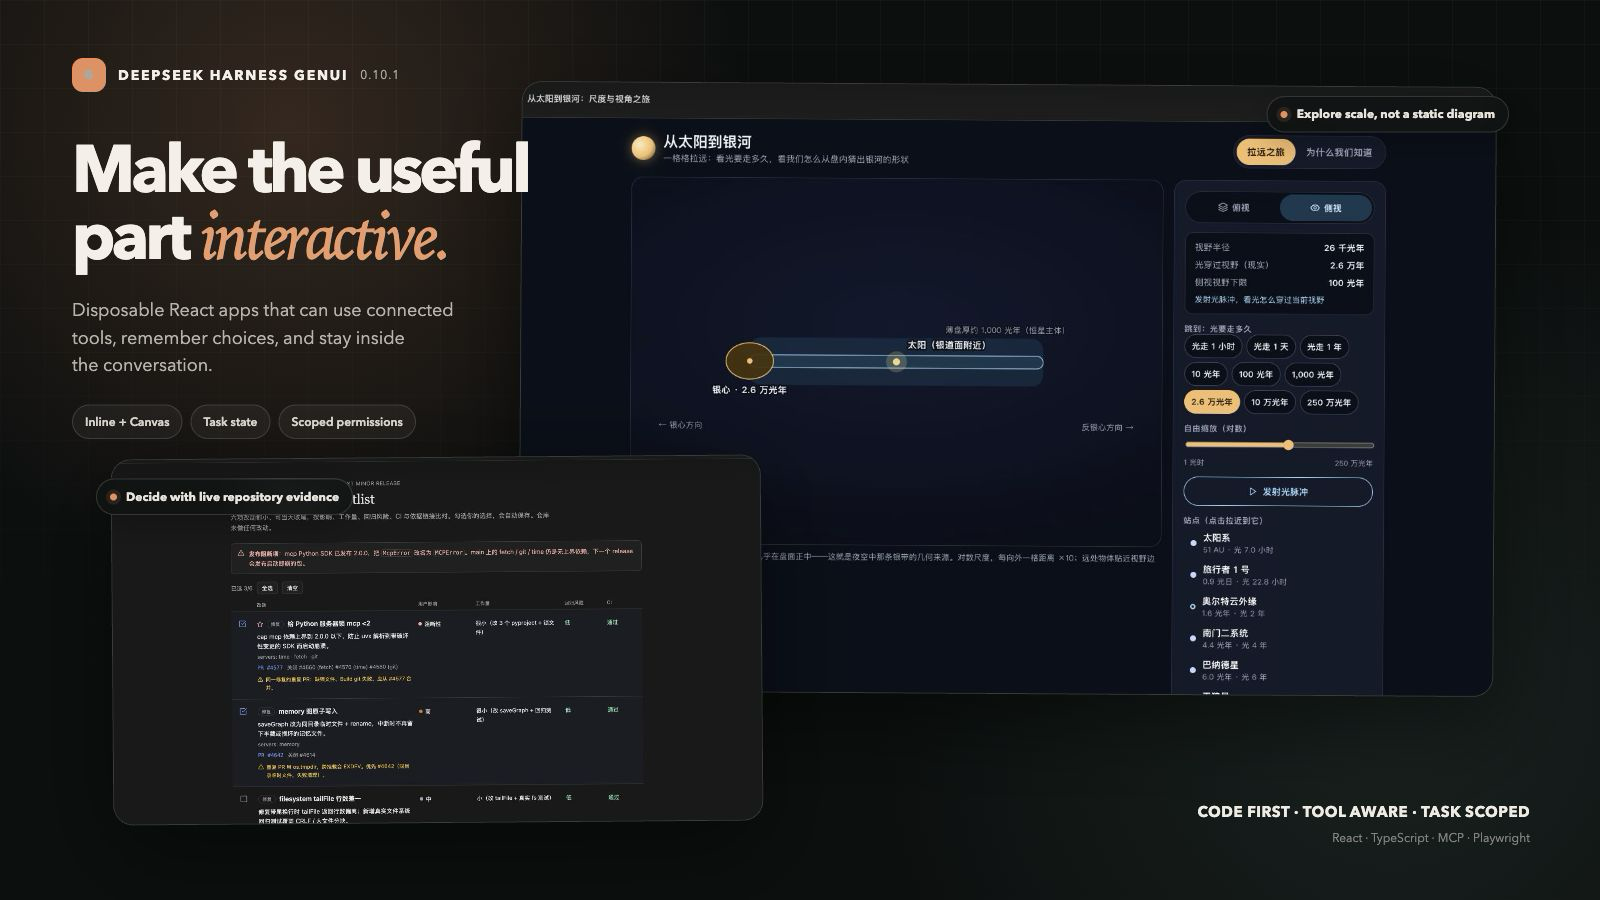
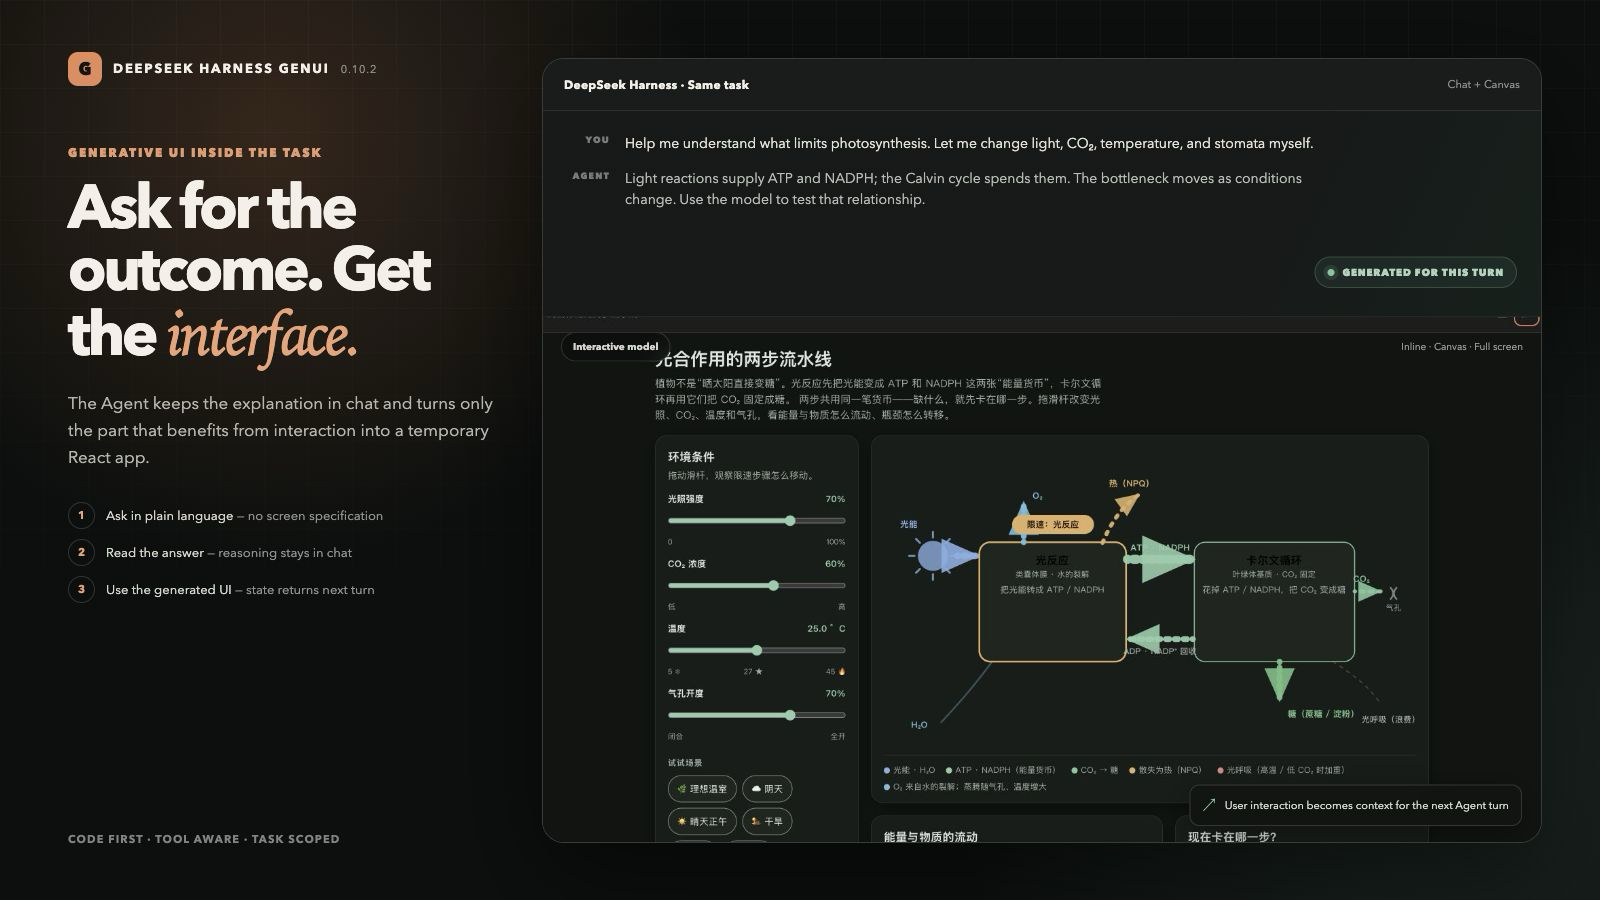
docs: show the GenUI workflow

diff --git a/assets/hero.html b/assets/hero.html
@@ -10,9 +10,9 @@
     body {
       position: relative;
       background:
-        radial-gradient(circle at 18% 14%, rgba(235, 140, 90, .19), transparent 30%),
-        radial-gradient(circle at 87% 79%, rgba(81, 145, 128, .14), transparent 33%),
-        #0d0f0f;
+        radial-gradient(circle at 17% 15%, rgba(226, 125, 76, .20), transparent 28%),
+        radial-gradient(circle at 91% 82%, rgba(88, 145, 124, .17), transparent 31%),
+        #0c0f0e;
       color: #f4f0e8;
       font-family: "Avenir Next", "Helvetica Neue", sans-serif;
     }
@@ -20,49 +20,84 @@
       position: absolute;
       inset: 0;
       background-image:
-        linear-gradient(rgba(255,255,255,.026) 1px, transparent 1px),
-        linear-gradient(90deg, rgba(255,255,255,.026) 1px, transparent 1px);
+        linear-gradient(rgba(255,255,255,.025) 1px, transparent 1px),
+        linear-gradient(90deg, rgba(255,255,255,.025) 1px, transparent 1px);
       background-size: 44px 44px;
       content: "";
-      mask-image: linear-gradient(to bottom, black, transparent 82%);
+      mask-image: linear-gradient(to bottom, black, transparent 84%);
     }
-    .brand { position: absolute; z-index: 3; top: 58px; left: 72px; display: flex; align-items: center; gap: 12px; }
-    .mark { display: grid; width: 34px; height: 34px; place-items: center; border-radius: 11px; background: #eb8c5a; color: #14110f; font-size: 17px; font-weight: 800; }
-    .brand strong { font-size: 14px; letter-spacing: .13em; text-transform: uppercase; }
-    .brand span { color: #aaa8a1; font-size: 12px; letter-spacing: .08em; }
-    .copy { position: absolute; z-index: 3; top: 139px; left: 72px; width: 470px; }
-    h1 { margin: 0; font-size: 66px; font-weight: 650; letter-spacing: -.055em; line-height: .98; text-wrap: balance; }
-    h1 em { color: #ed9a69; font-family: "Iowan Old Style", Georgia, serif; font-weight: 500; }
-    .lede { width: 430px; margin: 25px 0 0; color: #b7b4ac; font-size: 18px; line-height: 1.55; text-wrap: pretty; }
-    .chips { display: flex; flex-wrap: wrap; gap: 8px; margin-top: 25px; }
-    .chip { border: 1px solid rgba(255,255,255,.13); border-radius: 999px; padding: 8px 12px; background: rgba(255,255,255,.045); color: #d7d3cb; font-size: 12px; font-weight: 600; }
-    .shot { position: absolute; z-index: 2; overflow: hidden; border: 1px solid rgba(255,255,255,.16); border-radius: 20px; background: #151616; box-shadow: 0 30px 90px rgba(0,0,0,.46); }
-    .shot::before { position: absolute; z-index: 2; top: 0; right: 0; left: 0; height: 32px; background: linear-gradient(to bottom, rgba(13,15,15,.24), transparent); content: ""; pointer-events: none; }
-    .shot img { display: block; width: 100%; height: 100%; object-fit: cover; }
-    .concept { top: 68px; right: 65px; width: 975px; height: 610px; transform: rotate(.35deg); }
-    .concept img { object-position: 50% 50%; }
-    .tools { bottom: 61px; left: 72px; width: 650px; height: 366px; transform: rotate(-.45deg); }
-    .tools img { object-position: 50% 50%; }
-    .caption { position: absolute; z-index: 4; display: flex; align-items: center; gap: 9px; border: 1px solid rgba(255,255,255,.14); border-radius: 999px; padding: 9px 13px; background: rgba(16,18,18,.84); box-shadow: 0 8px 30px rgba(0,0,0,.25); color: #e8e4dc; font-size: 12px; font-weight: 650; backdrop-filter: blur(12px); }
-    .caption i { width: 7px; height: 7px; border-radius: 50%; background: #eb8c5a; box-shadow: 0 0 0 4px rgba(235,140,90,.12); }
-    .cap-concept { top: 96px; right: 91px; }
-    .cap-tools { bottom: 385px; left: 96px; }
-    .footer { position: absolute; z-index: 5; right: 70px; bottom: 54px; display: grid; justify-items: end; gap: 7px; }
-    .footer strong { color: #efebe3; font-size: 15px; letter-spacing: .03em; }
-    .footer span { color: #85837e; font-size: 12px; }
+    .brand { position: absolute; z-index: 4; top: 52px; left: 68px; display: flex; align-items: center; gap: 11px; }
+    .mark { display: grid; width: 34px; height: 34px; place-items: center; border-radius: 10px; background: #e58b59; color: #17120f; font-size: 17px; font-weight: 800; }
+    .brand strong { font-size: 13px; letter-spacing: .14em; text-transform: uppercase; }
+    .version { color: #8e918c; font-size: 11px; letter-spacing: .08em; }
+    .copy { position: absolute; z-index: 3; top: 145px; left: 68px; width: 430px; }
+    .eyebrow { margin: 0 0 16px; color: #e69a6f; font-size: 12px; font-weight: 750; letter-spacing: .15em; text-transform: uppercase; }
+    h1 { margin: 0; font-size: 61px; font-weight: 650; letter-spacing: -.052em; line-height: 1.02; text-wrap: balance; }
+    h1 em { color: #eda277; font-family: "Iowan Old Style", Georgia, serif; font-weight: 500; }
+    .lede { margin: 24px 0 0; color: #b7b5ad; font-size: 17px; line-height: 1.58; text-wrap: pretty; }
+    .flow { display: grid; gap: 10px; margin-top: 31px; }
+    .step { display: grid; grid-template-columns: 27px 1fr; align-items: center; gap: 11px; color: #d9d5cd; font-size: 13px; }
+    .step b { display: grid; width: 27px; height: 27px; place-items: center; border: 1px solid rgba(255,255,255,.15); border-radius: 50%; color: #eea176; font-size: 11px; }
+    .step span { color: #8f938e; }
+    .stage {
+      position: absolute;
+      z-index: 2;
+      top: 58px;
+      right: 58px;
+      width: 1000px;
+      height: 785px;
+      overflow: hidden;
+      border: 1px solid rgba(255,255,255,.16);
+      border-radius: 22px;
+      background: #141716;
+      box-shadow: 0 34px 100px rgba(0,0,0,.47);
+    }
+    .windowbar { display: flex; height: 52px; align-items: center; justify-content: space-between; border-bottom: 1px solid rgba(255,255,255,.09); padding: 0 21px; background: #191c1b; }
+    .windowbar strong { font-size: 12px; letter-spacing: .02em; }
+    .windowbar span { color: #8e928d; font-size: 11px; }
+    .transcript { position: relative; height: 205px; padding: 22px 24px; background: linear-gradient(115deg, #171918 0%, #171918 67%, #14201b 100%); }
+    .turn { position: relative; width: 770px; padding-left: 58px; }
+    .turn + .turn { margin-top: 15px; }
+    .speaker { position: absolute; top: 1px; left: 0; width: 43px; color: #777c77; font-size: 9px; font-weight: 800; letter-spacing: .13em; text-align: right; }
+    .turn p { margin: 0; color: #e5e1d9; font-size: 14px; line-height: 1.48; }
+    .turn.agent p { color: #b8bbb5; }
+    .generated { position: absolute; right: 24px; bottom: 28px; display: flex; align-items: center; gap: 8px; border: 1px solid rgba(111, 180, 148, .26); border-radius: 999px; padding: 8px 12px; background: rgba(74, 128, 104, .13); color: #acd4bf; font-size: 10px; font-weight: 750; letter-spacing: .08em; text-transform: uppercase; }
+    .generated i { width: 7px; height: 7px; border-radius: 50%; background: #79c49f; box-shadow: 0 0 0 4px rgba(121,196,159,.12); }
+    .canvas { position: relative; height: 528px; border-top: 1px solid rgba(255,255,255,.09); background: #101310; }
+    .canvasbar { position: absolute; z-index: 3; top: 15px; right: 18px; left: 18px; display: flex; align-items: center; justify-content: space-between; pointer-events: none; }
+    .canvasbar span { border: 1px solid rgba(255,255,255,.13); border-radius: 999px; padding: 7px 11px; background: rgba(11,14,13,.80); color: #d7d4cc; font-size: 10px; font-weight: 700; backdrop-filter: blur(10px); }
+    .canvasbar small { color: #989c96; font-size: 10px; }
+    .canvas img { display: block; width: 100%; height: 100%; object-fit: cover; object-position: 50% 22%; opacity: .96; }
+    .receipt { position: absolute; z-index: 3; right: 19px; bottom: 18px; display: flex; align-items: center; gap: 9px; border: 1px solid rgba(255,255,255,.14); border-radius: 10px; padding: 10px 12px; background: rgba(17,20,18,.90); box-shadow: 0 10px 34px rgba(0,0,0,.34); color: #dedbd3; font-size: 11px; backdrop-filter: blur(12px); }
+    .receipt b { color: #7dc7a4; font-size: 13px; }
+    .footer { position: absolute; z-index: 4; bottom: 53px; left: 68px; color: #7f837e; font-size: 11px; font-weight: 700; letter-spacing: .1em; text-transform: uppercase; }
   </style>
 </head>
 <body>
-  <div class="brand"><span class="mark">G</span><strong>DeepSeek Harness GenUI</strong><span>0.10.1</span></div>
+  <div class="brand"><span class="mark">G</span><strong>DeepSeek Harness GenUI</strong><span class="version">0.10.2</span></div>
   <section class="copy">
-    <h1>Make the useful part <em>interactive.</em></h1>
-    <p class="lede">Disposable React apps that can use connected tools, remember choices, and stay inside the conversation.</p>
-    <div class="chips"><span class="chip">Inline + Canvas</span><span class="chip">Task state</span><span class="chip">Scoped permissions</span></div>
+    <p class="eyebrow">Generative UI inside the task</p>
+    <h1>Ask for the outcome. Get the <em>interface.</em></h1>
+    <p class="lede">The Agent keeps the explanation in chat and turns only the part that benefits from interaction into a temporary React app.</p>
+    <div class="flow">
+      <div class="step"><b>1</b><div>Ask in plain language <span>— no screen specification</span></div></div>
+      <div class="step"><b>2</b><div>Read the answer <span>— reasoning stays in chat</span></div></div>
+      <div class="step"><b>3</b><div>Use the generated UI <span>— state returns next turn</span></div></div>
+    </div>
   </section>
-  <figure class="shot concept"><img src="../screenshots/v0.9.3-milky-way-galactic-scale.png" width="1440" height="900" alt="An interactive model showing the Sun and the Milky Way at galactic scale"></figure>
-  <div class="caption cap-concept"><i></i>Explore scale, not a static diagram</div>
-  <figure class="shot tools"><img src="../screenshots/v0.9.3-github-release-fullscreen.png" width="1440" height="900" alt="A release shortlist grounded in live GitHub evidence"></figure>
-  <div class="caption cap-tools"><i></i>Decide with live repository evidence</div>
-  <footer class="footer"><strong>CODE FIRST · TOOL AWARE · TASK SCOPED</strong><span>React · TypeScript · MCP · Playwright</span></footer>
+  <section class="stage" aria-label="A conversation producing an interactive photosynthesis model">
+    <header class="windowbar"><strong>DeepSeek Harness · Same task</strong><span>Chat + Canvas</span></header>
+    <div class="transcript">
+      <div class="turn user"><span class="speaker">YOU</span><p>Help me understand what limits photosynthesis. Let me change light, CO₂, temperature, and stomata myself.</p></div>
+      <div class="turn agent"><span class="speaker">AGENT</span><p>Light reactions supply ATP and NADPH; the Calvin cycle spends them. The bottleneck moves as conditions change. Use the model to test that relationship.</p></div>
+      <div class="generated"><i></i>Generated for this turn</div>
+    </div>
+    <div class="canvas">
+      <div class="canvasbar"><span>Interactive model</span><small>Inline · Canvas · Full screen</small></div>
+      <img src="../screenshots/v0.9.2-photosynthesis-fullscreen.png" width="1440" height="900" alt="Generated interactive photosynthesis model">
+      <div class="receipt"><b>↗</b>User interaction becomes context for the next Agent turn</div>
+    </div>
+  </section>
+  <footer class="footer">Code first · Tool aware · Task scoped</footer>
 </body>
 </html>

diff --git a/tests/mcp-bridge.e2e.spec.ts b/tests/mcp-bridge.e2e.spec.ts
@@ -146,7 +146,7 @@ describe('real MCP artifact bridge', () => {
     expect(zhResponse.status).toBe(200)
     const zhDocument = await zhResponse.text()
     expect(zhDocument).toContain('<html lang="zh">')
-    expect(zhDocument).toContain('app.js?runtime=0.10.1')
+    expect(zhDocument).toContain('app.js?runtime=0.10.2')
     expect(zhDocument).toContain('<meta name="color-scheme" content="light dark">')
 
     const missingLanguage = await fetch(`${origin}/genui/preview/mcp-artifact/${versionId}#token=${token}`)

diff --git a/src/runtime/server.ts b/src/runtime/server.ts
@@ -35,7 +35,7 @@ const MIME: Record<string, string> = {
   '.webp': 'image/webp',
 }
 
-const ARTIFACT_RUNTIME_VERSION = '0.10.1'
+const ARTIFACT_RUNTIME_VERSION = '0.10.2'
 
 function json(res: ServerResponse, status: number, value: unknown, req?: IncomingMessage): void {
   res.writeHead(status, {

diff --git a/README.md b/README.md
@@ -1,22 +1,63 @@
 # DeepSeek Harness GenUI
 
-[![Version](https://img.shields.io/badge/version-0.10.1-ea8f5a)](package.json)
+[![Version](https://img.shields.io/badge/version-0.10.2-ea8f5a)](package.json)
 [![CI](https://github.com/pengyue-polaron/deepseek-harness-genui/actions/workflows/ci.yml/badge.svg)](https://github.com/pengyue-polaron/deepseek-harness-genui/actions/workflows/ci.yml)
 [![Node.js](https://img.shields.io/badge/Node.js-%E2%89%A522.19-339933?logo=nodedotjs&logoColor=white)](package.json)
 [![License](https://img.shields.io/badge/license-MIT-202124)](LICENSE)
 
-![DeepSeek Harness GenUI](assets/hero.png)
+![A user asks for help in chat and the Agent returns an explanation beside a generated interactive model](assets/hero.png)
 
-Disposable, tool-aware React apps inside a DeepSeek Harness conversation. The Agent keeps the answer in chat and makes only the part that benefits from interaction into an app.
+Generative UI for DeepSeek Harness. The user describes the outcome in plain language. The Agent answers in chat and, only when interaction helps, creates a disposable React app inside the same task.
+
+**Request → answer in chat → working UI → saved interaction → next Agent turn**
+
+## Where it earns its place
+
+<table>
+  <thead>
+    <tr>
+      <th>Need</th>
+      <th>Answer in chat</th>
+      <th>Generated UI</th>
+    </tr>
+  </thead>
+  <tbody>
+    <tr>
+      <td><strong>Pause a long task at the right decision</strong><br><br>“Prepare a one-day release shortlist from recent issues, PRs, and failed Actions. Do not change the repository until I confirm it.”</td>
+      <td>The Agent explains the release blocker, competing fixes, effort, risk, and what still needs a human decision.</td>
+      <td><img src="screenshots/v0.9.3-github-release-selected.png" width="360" alt="A source-linked GitHub release shortlist beside the Harness conversation"><br><br>A source-linked shortlist with saved selections. The Agent continues the release plan from the confirmed set.</td>
+    </tr>
+    <tr>
+      <td><strong>Work across tools without building an integration</strong><br><br>“Find small vision models and related implementations. Search the sources I connected, then let me keep the useful ones.”</td>
+      <td>The Agent states what it can search, asks for permission at first use, and keeps credentials out of the generated app.</td>
+      <td><img src="screenshots/v0.9.2-canvas.png" width="360" alt="A temporary model search workspace using Hugging Face and GitHub tools"><br><br>One temporary workspace over Hugging Face and GitHub, with search, source filters, and favorites.</td>
+    </tr>
+    <tr>
+      <td><strong>Explain a relationship that changes</strong><br><br>“Show me which part of photosynthesis becomes limiting when light, CO₂, temperature, or stomata change.”</td>
+      <td>The Agent first explains the light reactions, ATP/NADPH, Calvin cycle, and the likely bottleneck in plain language.</td>
+      <td><img src="screenshots/v0.9.2-photosynthesis-canvas.png" width="360" alt="An interactive photosynthesis model beside the written explanation"><br><br>A causal model with sliders and live energy and matter flow, not a decorative diagram.</td>
+    </tr>
+    <tr>
+      <td><strong>Let the next turn use what happened in the UI</strong><br><br>“Which candidates did I just favorite? Read only the choices saved in the page.”</td>
+      <td>The Agent reads the task-scoped state and answers with the exact selected items instead of guessing from chat history.</td>
+      <td><img src="screenshots/tool-state-readback-0.8.5.png" width="360" alt="The Agent reading a user's saved UI selections on the next turn"><br><br>The generated app is a two-way task surface: user interaction becomes context for the next step.</td>
+    </tr>
+  </tbody>
+</table>
+
+These are ordinary task prompts, not hard-coded demos. The useful boundary is simple: prose carries the answer; UI carries the interaction.
 
 ## What it adds
 
-- Inline, adaptive Canvas, and full-screen surfaces.
+- Inline, adaptive Canvas, and full-screen surfaces inside the conversation.
 - Normal multi-file React + TypeScript; no component-tree IR.
 - Task-scoped state that the Agent can read on the next turn.
-- MCP and public HTTPS access behind clear, first-use permission prompts.
+- Existing Harness and MCP tools behind explicit, first-use permission prompts.
+- Approved public HTTPS requests without exposing credentials to app code.
 - Sandboxed builds with desktop, mobile, dark-mode, overflow, motion, and accessibility checks.
 - Reusable visual direction through `DESIGN.md`.
+
+Good fits include decision checkpoints, temporary tool workspaces, structured feedback, exception review, live incident triage, data reconciliation, and explorable models. Plain questions, rewriting, and straightforward explanations stay in prose.
 
 ## Install
 
@@ -29,7 +70,7 @@ pnpm run package:plugin
 ```
 
 ```sh
-DSH_HOME=/path/to/dsh-home pnpm dsh plugin --profile web add /absolute/path/to/dsh-plugin-genui-0.10.1.tgz
+DSH_HOME=/path/to/dsh-home pnpm dsh plugin --profile web add /absolute/path/to/dsh-plugin-genui-0.10.2.tgz
 DSH_HOME=/path/to/dsh-home pnpm dsh --profile web
 ```
 
@@ -51,15 +92,9 @@ Open **Settings → Plugins → Plugin configuration** to keep automatic styling
 | Tools | Harness/MCP calls + approved public HTTPS |
 | State | task-scoped artifact state, 7-day inactivity expiry |
 
-## Good fits
-
-- Pause a long task at a real decision, then continue from the user's saved choice.
-- Search and shortlist connected data without exposing credentials to the app.
-- Turn a difficult scientific relationship into a manipulable causal model.
-
-Plain questions, rewriting, and straightforward explanations stay in prose. See [`examples/real-user-scenarios.md`](examples/real-user-scenarios.md) for acceptance prompts.
-
 ## Development
+
+Acceptance prompts live in [`examples/real-user-scenarios.md`](examples/real-user-scenarios.md).
 
 ```sh
 pnpm run typecheck

diff --git a/examples/real-user-scenarios.md b/examples/real-user-scenarios.md
@@ -26,6 +26,36 @@ The model should connect light reactions, ATP/NADPH, the Calvin cycle, photoresp
 
 The useful surface is a logarithmic journey with face-on and edge-on views, landmarks, and light-travel time.
 
+## Triage a live incident without a permanent dashboard
+
+> The checkout API started timing out after today's deploy. Use the monitoring, issue tracker, and deployment tools already connected to this Harness. Tell me what changed, group the failures by likely cause, and give me a small read-only incident board that I can filter by service and time window. Do not roll back or change production until I explicitly approve the exact action.
+
+The Agent should keep the diagnosis in prose and use the temporary surface for evidence, filtering, and the action boundary. Any mutation needs a separate, exact confirmation.
+
+## Reconcile exceptions instead of reading a long report
+
+> Compare this month's failed reimbursements with their receipts and policy checks. Explain the recurring causes, then let me resolve only the ambiguous rows. Keep my decisions so you can draft the final exception summary afterward.
+
+The useful surface is an evidence-linked exception queue. The next turn must use the saved decisions rather than asking the user to repeat them.
+
+## Collect structured feedback during a larger task
+
+> You are helping me review six onboarding flows. First explain the patterns you found. Then give me a compact way to rate clarity, trust, and effort for each flow and add one note. When I finish, use my ratings to write the recommendation.
+
+The UI is a temporary input instrument tailored to the current evidence, not a reusable survey builder. Partial progress should survive closing and reopening the Canvas.
+
+## Configure one safe action over connected tools
+
+> Prepare a staging deployment from the current release candidate. Read the repository and deployment configuration, explain anything risky, and let me choose the region, rollout percentage, and health-check window. Show the exact action before asking me to approve it. Do not deploy while I am still adjusting the form.
+
+The generated UI turns existing tools into a task-specific control surface. Configuration state and tool credentials remain separate, and the final mutation requires explicit approval.
+
+## Compare evidence across sources
+
+> Find small vision-language models that can run locally on a 24 GB machine. Search the model hub and the implementation repositories I connected. Explain the main constraints, then let me filter by license, memory, recency, and runnable code and keep a shortlist for the next turn.
+
+The Agent should reconcile model metadata with repository evidence instead of copying one source. The UI provides filters and saved choices; prose carries caveats and conclusions.
+
 ## Stay with prose
 
 > Rewrite this notice so it sounds natural: We will have the weekly meeting tomorrow at 3 PM. Please prepare your progress for this week in advance.
